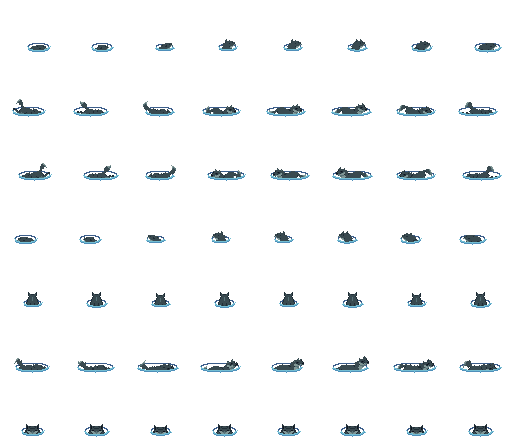
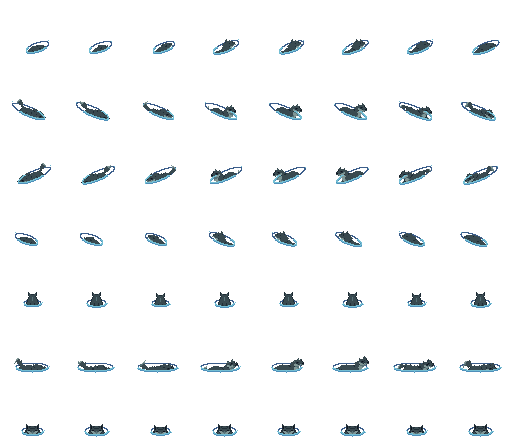
improve swimming sprites

diff --git a/main.js b/main.js
@@ -116,10 +116,12 @@ const frameDataBySpeciesAndPose = {
     // Sprites draw over all tiles, and land is drawn 8px higher than water, so a land
     // tile screen-below the swimmer has its top corner 8px below the ground point, and
     // that shoreline rises 1px per 2px to either side (8 - |dx|/2, never above 0).
-    // 52 is the smallest value that keeps every swim pixel above that worst case
-    // (land directly in front and to both front sides).
+    // 57 is the smallest value that keeps every swim pixel above that worst case
+    // (land directly in front and to both front sides). The down-facing diagonal rows'
+    // tilted water rings reach lowest and set it; one value keeps every facing's
+    // waterline at the same height, so a turning swimmer doesn't hop.
     swim: {sheet: "wolf-swim", nFrames: 8, colZero: 0, frameW: 64, frameH: 64,
-      holdTks: 8, topToShadow: 52 },
+      holdTks: 8, topToShadow: 57 },
     // death: {nFrames: 2, colZero: 0, frameW: 64, frameH: 64,
     //   holdTks: 3, repeatLimit: 3, exitToPose: 'dead' }
   },
@@ -696,6 +698,8 @@ function moveAllTogether(movers, statics = []) {
       // this is the ONLY PLACE ANYWHERE that thing gx and gy should change!
       thing.gx = thing.nextGX;
       thing.gy = thing.nextGY;
+      // all-water check for this position, worked out by findCollidingPairs above
+      thing.waterState = { gx: thing.gx, gy: thing.gy, allWater: thing.nextAllWater };
       if (thing.returnToLand) thing.returnToLand.blockedTicks = 0;
       updateTerrainPose(thing); // swim <-> land pose when crossing a shoreline
       if (thing === pcWolf && cameraFollowsWolf) {
@@ -902,14 +906,24 @@ function setCritterIdle(a) {
 }
 
 // SWIMMING
-// Water is passable. A critter whose tile is water is always in the "swim" pose, at
-// its species' single swim speed (or 0 when treading water). Swimming is
-// fatigue-neutral: "swim" has no fatigueBySpeciesAndPose entry, so applyFatigue skips it.
+// Water is passable. A critter is in water only when ALL the tiles it occupies are water
+// (any land under it means it's on land); then it is always in the "swim" pose, at its
+// species' single swim speed (or 0 when treading water). Swimming is fatigue-neutral:
+// "swim" has no fatigueBySpeciesAndPose entry, so applyFatigue skips it.
 // landPose remembers the land pose that was asked for (walk/run/sprint/idle), so a
 // critter climbing out of the water resumes it.
 
+// a.waterState caches the answer for the position it was computed at. In normal play it
+// is set by moveAllTogether from findCollidingPairs, which already checks every tile a
+// critter will occupy, so this costs nothing extra per tick. The lookup below only runs
+// when a critter was placed directly (spawning, or a test or debug teleport).
 function isInWater(a) {
-  return getTerrainAt(a.gx, a.gy) === "water";
+  const s = a.waterState;
+  if (s && s.gx === a.gx && s.gy === a.gy) return s.allWater;
+  const allWater = getOccupiedTiles(a.gx, a.gy).every(tile =>
+    getTerrainAt(...tile.split("_").map(Number)) === "water");
+  a.waterState = { gx: a.gx, gy: a.gy, allWater };
+  return allWater;
 }
 
 // Called whenever a critter's position changes: switch between swimming and land poses
@@ -1293,18 +1307,31 @@ function findCollidingPairs(creatures) {
 
   const tileMap = new Map();  // key: tile "x_y", value: critter indexes
   const potentialPairs = new Set();  // store "i|j" where i < j
+  // terrain of each tile looked at this call, so each is computed once
+  const terrainByTile = new Map();
 
   for (let i = 0; i < creatures.length; i++) {
     const creature = creatures[i];
     // TODO: individual-specific bounding boxes, ideally rectangular rather than square
-    
+
     // tiles is array of strings in x_y format
     const tiles = getOccupiedTiles(creature.nextGX, creature.nextGY);
+    // Whether every tile under the creature's next position is water. Recorded here,
+    // where occupancy and terrain are already worked out, for the swim check
+    // (isInWater) once the creature actually moves there.
+    let allWater = true;
 
     for (const tile of tiles) {
-      if (!tileMap.has(tile)) {
+      let terrain = terrainByTile.get(tile);
+      if (terrain === undefined) {
         const [tileX, tileY] = tile.split("_").map(Number);
-        if (isImpassable(getTerrainAt(tileX, tileY))) {
+        terrain = getTerrainAt(tileX, tileY);
+        terrainByTile.set(tile, terrain);
+      }
+      if (terrain !== "water") allWater = false;
+
+      if (!tileMap.has(tile)) {
+        if (isImpassable(terrain)) {
           potentialPairs.add(`-1|${i}`);
         } else {
           tileMap.set(tile, [i]);
@@ -1317,6 +1344,7 @@ function findCollidingPairs(creatures) {
         tileMap.get(tile).push(i);
       }
     }
+    creature.nextAllWater = allWater;
   }
 
   // Now check actual bounding box overlap

diff --git a/spritecraft/make_swim_sheets.py b/spritecraft/make_swim_sheets.py
@@ -1,0 +1,281 @@
+#!/usr/bin/env python3
+"""Generate the swimming sprite sheets from the run frames of the land sheets.
+
+    images/wolf-run-stand.png      -> images/wolf-swim.png   (8 frames x 7 facings, 64x64)
+    images/stag-walk-idle-run.png  -> images/stag-swim.png   (10 frames x 4 facings, 40x48)
+
+Usage (from anywhere; needs Python 3 with Pillow and numpy):
+
+    python3 spritecraft/make_swim_sheets.py                 # regenerate both sheets in images/
+    python3 spritecraft/make_swim_sheets.py --wolf-cut 14   # try a different waterline height
+    python3 spritecraft/make_swim_sheets.py --out-dir /tmp  # write somewhere else to compare
+
+After generating, it prints the smallest `topToShadow` each sheet needs for its swim pose
+in main.js (frameDataBySpeciesAndPose.<species>.swim) and compares it with the current
+value there. That value must be updated by hand if it changes.
+
+How each run frame becomes a swim frame:
+  1. Drop the ground-shadow pixels (nothing casts a ground shadow in water).
+  2. Cut the body at a level water plane `cut` pixels above the ground point (vertical
+     distances are drawn unforeshortened in this projection, so pre-projection height =
+     screen pixels). The cut follows the near edge of the water ring, since a level plane
+     meets the body's near side lower on screen.
+  3. Lower the result so the waterline sits on the water tile's surface, which is drawn
+     WATER_SINK_PX below the land surface (the ground point).
+  4. Draw the water ring: its far half behind the body, its near half in front.
+
+Two ring shapes:
+  * Flat ellipse, for bodies seen side-on (right), head-on (down) or from behind (up),
+    and for the deer, whose rings are nearly circular.
+  * Tilted ring, for the wolf's diagonal facings, whose bodies lie along an isometric
+    grid axis: an oval on the water surface around the body, drawn the way the game
+    draws the ground, grid offset (ox, oy) -> screen (16(ox-oy), 8(ox+oy)).
+"""
+import argparse
+import math
+import re
+from pathlib import Path
+
+import numpy as np
+from PIL import Image
+
+PROJECT = Path(__file__).resolve().parent.parent
+IMAGES = PROJECT / "images"
+
+SHADOW = np.array([21, 29, 40])                          # ground-shadow color in land sheets
+FOAM, RIPPLE, DEEP = (115, 190, 211), (79, 143, 186), (60, 94, 139)  # from tiles.png water
+WATER_SINK_PX = 8            # water surface is drawn this far below the land surface
+
+TILE_AXIS_PX = math.hypot(16, 8)   # screen length of one tile along a grid axis
+RING_HALF_WIDTH_TILES = 0.3        # tilted ring: half-width across the body, in tiles
+
+# What to build. ground = the frame's ground point (x, topToShadow of the land poses).
+SHEETS = {
+    "wolf": dict(
+        src="wolf-run-stand.png", out="wolf-swim.png",
+        rows=range(7), cols=range(8),            # run uses the walk frames, all 7 facings
+        frame=(64, 64), ground=(32, 39), out_frame=(64, 64), cut=13,
+        # rows 0-3 are the diagonal facings. 0 (up-right) / 2 (down-left) lie along grid
+        # axis (0, 1); 1 (down-right) / 3 (up-left) along (1, 0). They get tilted rings.
+        axis_by_row={0: (0, 1), 1: (1, 0), 2: (0, 1), 3: (1, 0)},
+        sheet_class="wolf-swim",
+    ),
+    "deer": dict(
+        src="stag-walk-idle-run.png", out="stag-swim.png",
+        rows=range(4), cols=range(35, 45),       # run frames
+        frame=(32, 41), ground=(16, 33), out_frame=(40, 48), cut=17,  # wider/taller for the ring
+        axis_by_row={},
+        sheet_class="deer-swim",
+    ),
+}
+
+
+def load(path):
+    return np.array(Image.open(path).convert("RGBA"))
+
+
+def iso(ox, oy):
+    return 16 * (ox - oy), 8 * (ox + oy)
+
+
+def remove_shadow_and_pad(src, out_w, out_h, x_off):
+    f = src.copy()
+    rgb = f[:, :, :3].astype(int)
+    f[(f[:, :, 3] > 0) & (np.abs(rgb - SHADOW).max(2) <= 2)] = 0
+    h, w = f.shape[:2]
+    canvas = np.zeros((out_h, out_w, 4), np.uint8)
+    canvas[:h, x_off:x_off + w] = f
+    return canvas
+
+
+def cut_and_lower(canvas, near_y, cut):
+    """Keep body pixels above near_y(x), then lower everything to the water surface."""
+    out_h, out_w = canvas.shape[:2]
+    body = np.zeros_like(canvas)
+    for y in range(out_h):
+        for x in range(out_w):
+            if canvas[y, x, 3] and y + 0.5 < near_y(x):
+                body[y, x] = canvas[y, x]
+    shift = cut + WATER_SINK_PX
+    out = np.zeros_like(body)
+    out[shift:] = body[:out_h - shift]
+    return out, shift
+
+
+def draw_ring(out, far_pts, near_pts):
+    out_h, out_w = out.shape[:2]
+    for x, y in far_pts:            # behind the body: only where nothing is drawn
+        if 0 <= x < out_w and 0 <= y < out_h and out[y, x, 3] == 0:
+            out[y, x] = (*DEEP, 255)
+    for x, y in near_pts:           # in front: foam line with a ripple line under it
+        if 0 <= x < out_w and 0 <= y < out_h:
+            out[y, x] = (*FOAM, 255)
+            if y + 1 < out_h and out[y + 1, x, 3] == 0:
+                out[y + 1, x] = (*RIPPLE, 255)
+
+
+def draw_point(out, x, y):
+    if 0 <= x < out.shape[1] and 0 <= y < out.shape[0]:
+        out[y, x] = (*FOAM, 255)
+
+
+def swim_frame_flat(src, ground, cut, out_w, out_h, x_off, phase):
+    canvas = remove_shadow_and_pad(src, out_w, out_h, x_off)
+    yw = ground[1] - cut                          # waterline height on the body
+    a = canvas[:, :, 3] > 0
+    cols = np.nonzero(a[max(0, yw - 1): yw + 2].any(0))[0]
+    if len(cols) == 0:                            # nothing at that height: use whole body
+        cols = np.nonzero(a.any(0))[0]
+    x0, x1 = cols.min(), cols.max()
+    cx = (x0 + x1) / 2 + 0.5
+    rx = (x1 - x0 + 1) / 2 + 2 + (phase % 2)      # ring breathes by 1px across frames
+    ry = min(4.0, max(2.0, rx * 0.35))
+
+    def near_y(x):                                # near (lower) arc of the ring
+        t = 1 - ((x + 0.5 - cx) / rx) ** 2
+        return yw + ry * math.sqrt(t) if t > 0 else yw
+
+    out, shift = cut_and_lower(canvas, near_y, cut)
+    cyw = yw + shift
+
+    def ring_pts(upper):
+        pts = set()
+        for i in range(720):
+            th = 2 * math.pi * i / 720
+            x, y = cx + rx * math.cos(th), cyw + ry * math.sin(th)
+            if (y < cyw) == upper:
+                pts.add((int(math.floor(x)), int(math.floor(y))))
+        return pts
+
+    draw_ring(out, ring_pts(True), ring_pts(False))
+    for sx in ((-1, 1) if phase % 2 == 0 else (1, -1)):   # wake splashes at the ends
+        draw_point(out, int(cx + sx * (rx + 1)), int(cyw + (phase % 3) - 1))
+    return out
+
+
+def tilted_ring(cx, cy, half_len_px, body_axis):
+    """Points of a water-surface oval centered on screen point (cx, cy), lying along the
+    grid unit vector body_axis. Returns [(x, y, is_near)]; near points face the camera,
+    which looks along grid (-1, -1)."""
+    u = body_axis
+    v = (u[1], u[0])                          # the other grid axis (perpendicular)
+    L = half_len_px / TILE_AXIS_PX            # half-length along the body, in tiles
+    W = RING_HALF_WIDTH_TILES
+    pts = []
+    for i in range(1440):
+        t = 2 * math.pi * i / 1440
+        ox = L * math.cos(t) * u[0] + W * math.sin(t) * v[0]
+        oy = L * math.cos(t) * u[1] + W * math.sin(t) * v[1]
+        sx, sy = iso(ox, oy)
+        pts.append((cx + sx, cy + sy, ox + oy > 0))
+    return pts
+
+
+def swim_frame_tilted(src, ground, cut, out_w, out_h, x_off, phase, body_axis):
+    canvas = remove_shadow_and_pad(src, out_w, out_h, x_off)
+    yw = ground[1] - cut
+    a = canvas[:, :, 3] > 0
+    # body extent along its screen axis, near the waterline
+    sx_, sy_ = iso(*body_axis)
+    n = math.hypot(sx_, sy_)
+    ax = (sx_ / n, sy_ / n)
+    ys, xs = np.nonzero(a[max(0, yw - 4): yw + 5])
+    ys = ys + max(0, yw - 4)
+    if len(xs) == 0:
+        ys, xs = np.nonzero(a)
+    proj = (xs + 0.5) * ax[0] + (ys + 0.5) * ax[1]
+    half_len = (proj.max() - proj.min()) / 2 + 2 + (phase % 2)   # ring breathes by 1px
+    cx = (xs.min() + xs.max()) / 2 + 0.5
+    pts = tilted_ring(cx, yw, half_len, body_axis)
+
+    cols = {}                                 # lowest (nearest) edge of the oval per column
+    for x, y, _ in pts:
+        c = int(math.floor(x))
+        cols[c] = max(cols.get(c, -1e9), y)
+    cmin, cmax = min(cols), max(cols)
+
+    def near_y(x):
+        return cols.get(min(max(x, cmin), cmax), yw)
+
+    out, shift = cut_and_lower(canvas, near_y, cut)
+    ring = [(int(math.floor(x)), int(math.floor(y + shift)), near) for x, y, near in pts]
+    draw_ring(out, [(x, y) for x, y, near in ring if not near],
+                   [(x, y) for x, y, near in ring if near])
+    for sgn in ((-1, 1) if phase % 2 == 0 else (1, -1)):   # wake splashes at the ends
+        draw_point(out, int(cx + sgn * (half_len + 1) * ax[0]),
+                   int(yw + shift + sgn * (half_len + 1) * ax[1] + (phase % 3) - 1))
+    return out
+
+
+def build(spec, cut, src_dir, out_path):
+    S = load(src_dir / spec["src"])
+    fw, fh = spec["frame"]
+    out_w, out_h = spec["out_frame"]
+    rows, cols = list(spec["rows"]), list(spec["cols"])
+    x_off = (out_w - fw) // 2
+    ground = (spec["ground"][0] + x_off, spec["ground"][1])
+    sheet = np.zeros((len(rows) * out_h, len(cols) * out_w, 4), np.uint8)
+    for ri, r in enumerate(rows):
+        for ci, c in enumerate(cols):
+            src = S[r * fh:(r + 1) * fh, c * fw:(c + 1) * fw]
+            axis = spec["axis_by_row"].get(r)
+            frame = (swim_frame_tilted(src, ground, cut, out_w, out_h, x_off, ci, axis)
+                     if axis else swim_frame_flat(src, ground, cut, out_w, out_h, x_off, ci))
+            sheet[ri * out_h:(ri + 1) * out_h, ci * out_w:(ci + 1) * out_w] = frame
+    Image.fromarray(sheet).save(out_path)
+    return sheet
+
+
+def needed_top_to_shadow(sheet, out_frame):
+    """Smallest topToShadow keeping every pixel clear of land in front of the swimmer.
+    Land is drawn WATER_SINK_PX above water, so with land directly in front and to both
+    front sides the shoreline lies 8 - |dx|/2 px below the ground point (never above it)."""
+    out_w, out_h = out_frame
+    alpha = sheet[:, :, 3] > 0
+    worst = -math.inf
+    for y, x in zip(*np.nonzero(alpha)):
+        fx, fy = x % out_w, y % out_h
+        shoreline = max(0, WATER_SINK_PX - abs(fx + 0.5 - out_w / 2) / 2)
+        worst = max(worst, fy + 1 - shoreline)
+    return math.ceil(worst)
+
+
+def current_top_to_shadow(sheet_class):
+    """Read the swim pose's topToShadow for this sheet class from main.js, if found."""
+    try:
+        src = (PROJECT / "main.js").read_text()
+    except OSError:
+        return None
+    m = re.search(r'sheet:\s*"' + re.escape(sheet_class) + r'".*?topToShadow:\s*(\d+)', src, re.S)
+    return int(m.group(1)) if m else None
+
+
+def main():
+    ap = argparse.ArgumentParser(description=__doc__, formatter_class=argparse.RawDescriptionHelpFormatter)
+    ap.add_argument("--wolf-cut", type=int, default=SHEETS["wolf"]["cut"],
+                    help="wolf waterline height above the ground point, px (default %(default)s)")
+    ap.add_argument("--deer-cut", type=int, default=SHEETS["deer"]["cut"],
+                    help="deer waterline height above the ground point, px (default %(default)s)")
+    ap.add_argument("--src-dir", type=Path, default=IMAGES, help="where the land sheets are")
+    ap.add_argument("--out-dir", type=Path, default=IMAGES, help="where to write the swim sheets")
+    ap.add_argument("--only", choices=list(SHEETS), help="build just one species' sheet")
+    args = ap.parse_args()
+    args.out_dir.mkdir(parents=True, exist_ok=True)
+
+    for species, spec in SHEETS.items():
+        if args.only and species != args.only:
+            continue
+        cut = args.wolf_cut if species == "wolf" else args.deer_cut
+        out_path = args.out_dir / spec["out"]
+        sheet = build(spec, cut, args.src_dir, out_path)
+        need = needed_top_to_shadow(sheet, spec["out_frame"])
+        have = current_top_to_shadow(spec["sheet_class"])
+        status = ("matches main.js" if have == need else
+                  f"main.js has {have}: update it to {need}" if have is not None else
+                  "(not found in main.js)")
+        print(f"{species}: wrote {out_path}  (waterline {cut}px)  "
+              f"swim topToShadow needed: {need}  {status}")
+
+
+if __name__ == "__main__":
+    main()
